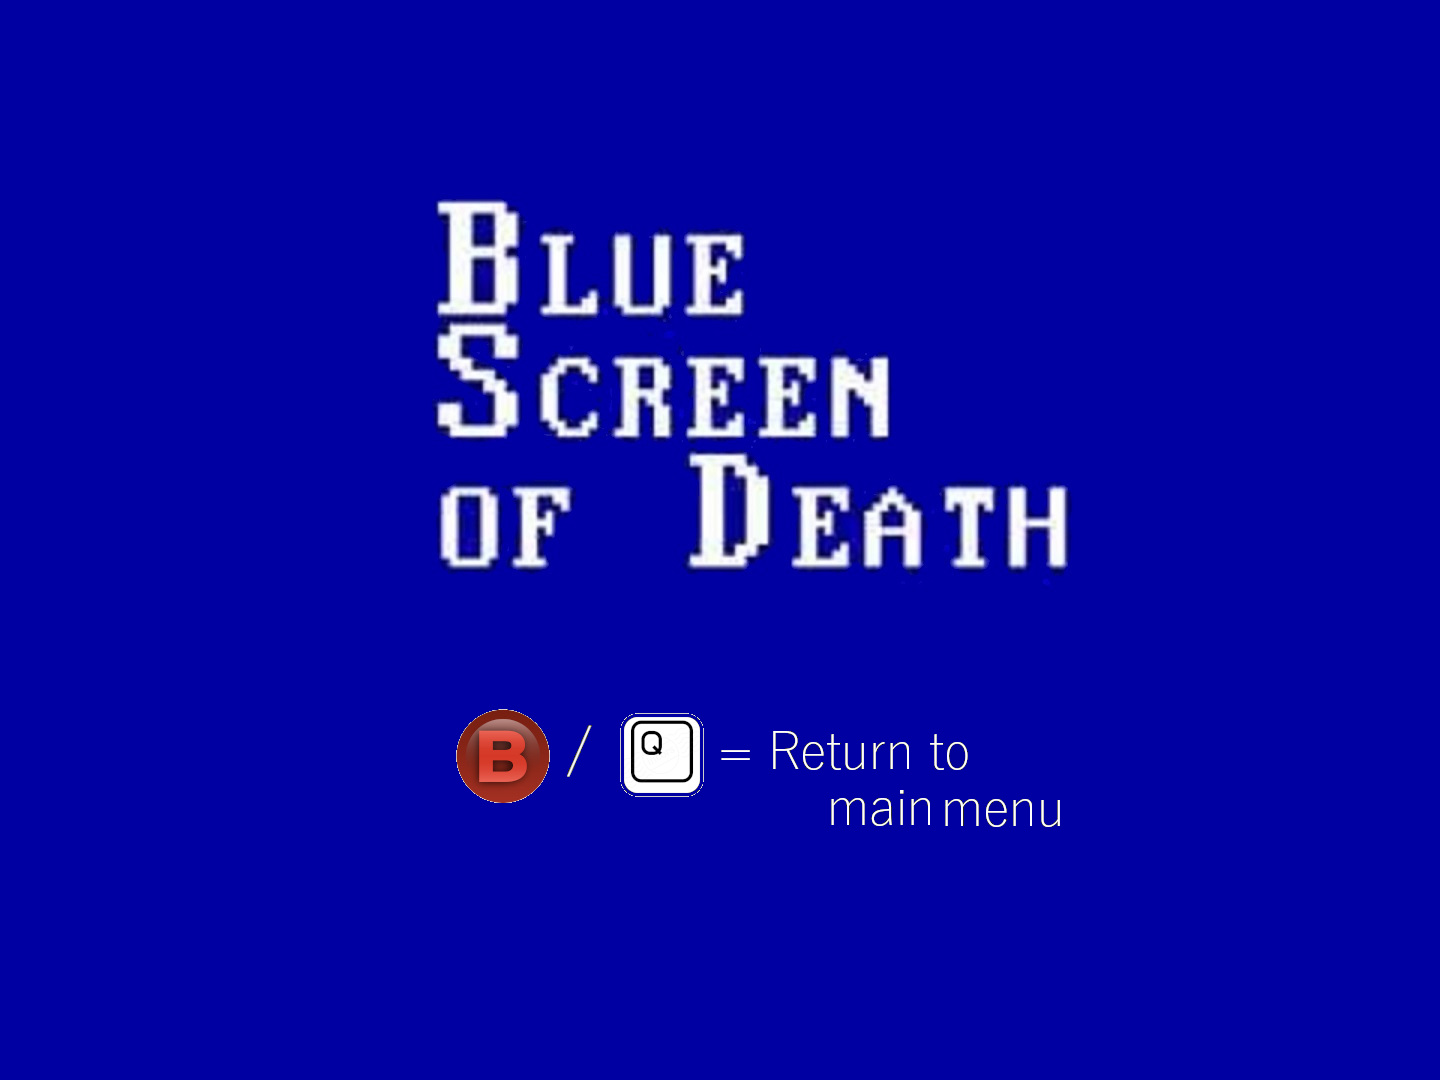
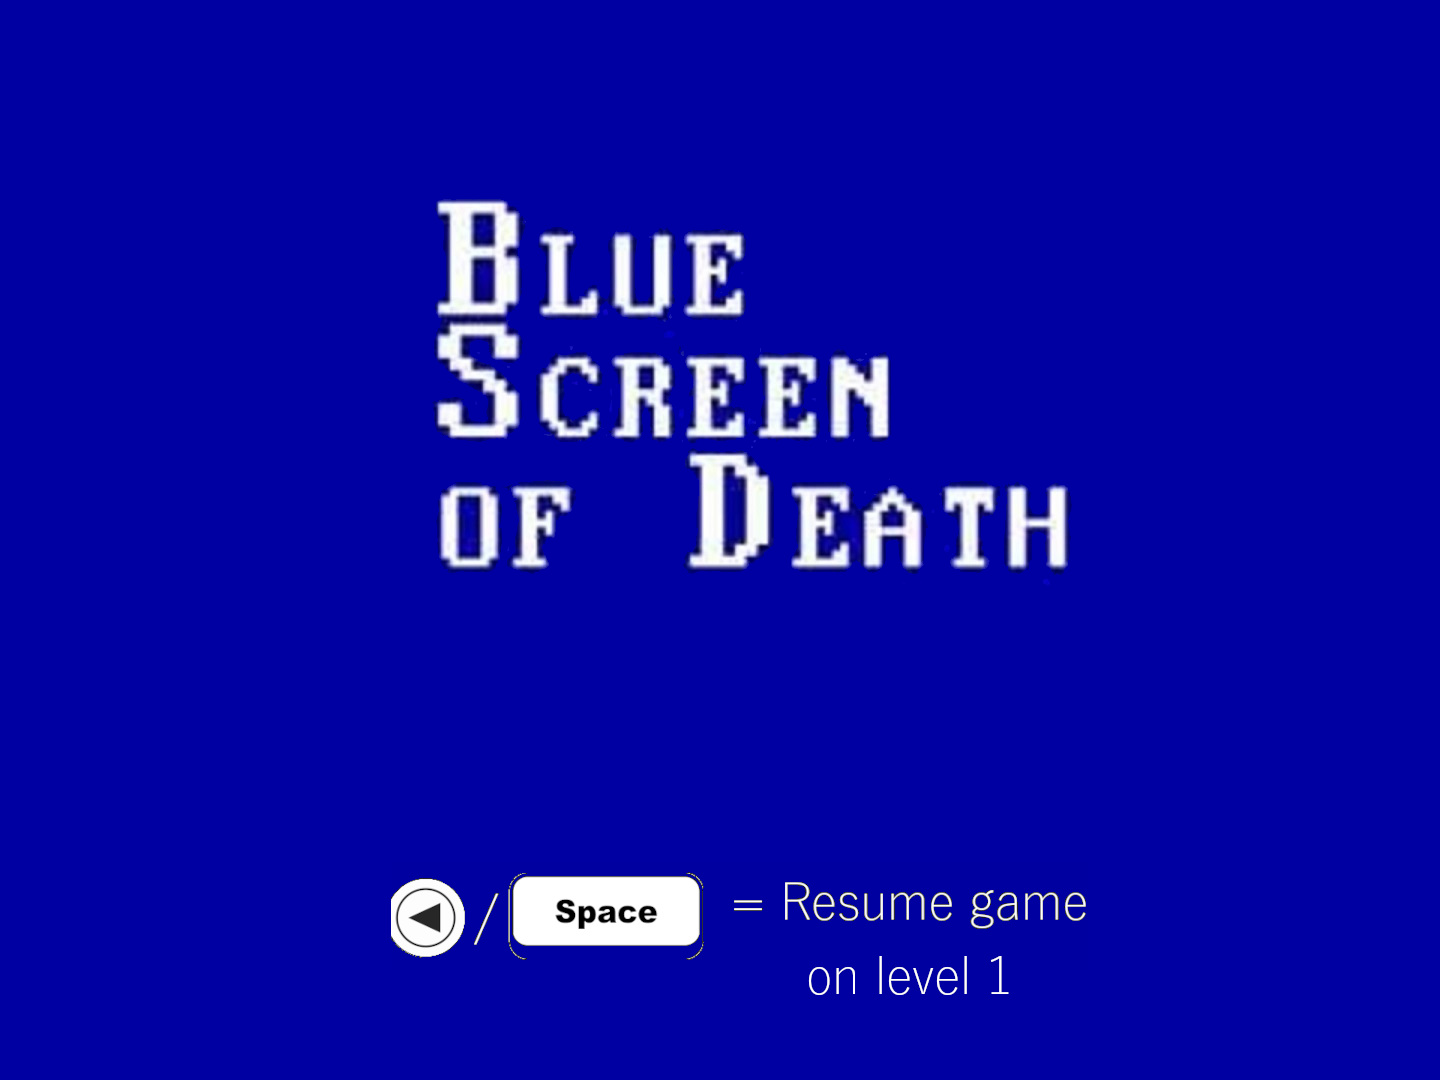
miss shader + sound ....

diff --git a/Splatt/Lunar_GroundContainer.cpp b/Splatt/Lunar_GroundContainer.cpp
@@ -18,8 +18,9 @@ void GroundContainer::Update(RenderWindow& _window)
 
 void GroundContainer::GoToNextLvl(RenderWindow& _window)
 {
-	mNbLvl++;
-	mLvlCanChange = true;
+		mNbLvl++;
+		mLvlCanChange = true;
+	
 
 	ChangeLevel(_window);
 }
@@ -80,11 +81,17 @@ void GroundContainer::DeathScreen(RenderWindow& _window)
 	mMySprite.setPosition(mPosition);
 
 	mLvlCanChange = true;
+
+	if (isButtonPressed(Action::Lunar_ReturnMenu))
+		ChangeState(State::MENU);
+
+	if (isButtonPressed(Action::Lunar_Select))
+		mNbLvl = 1;
 }
 
 void GroundContainer::ResetLevel()
 {
-	mNbLvl = 0;
+	mNbLvl = 1;
 	mIsOnDS = false;
 	mStartNewGame = true;
 }
